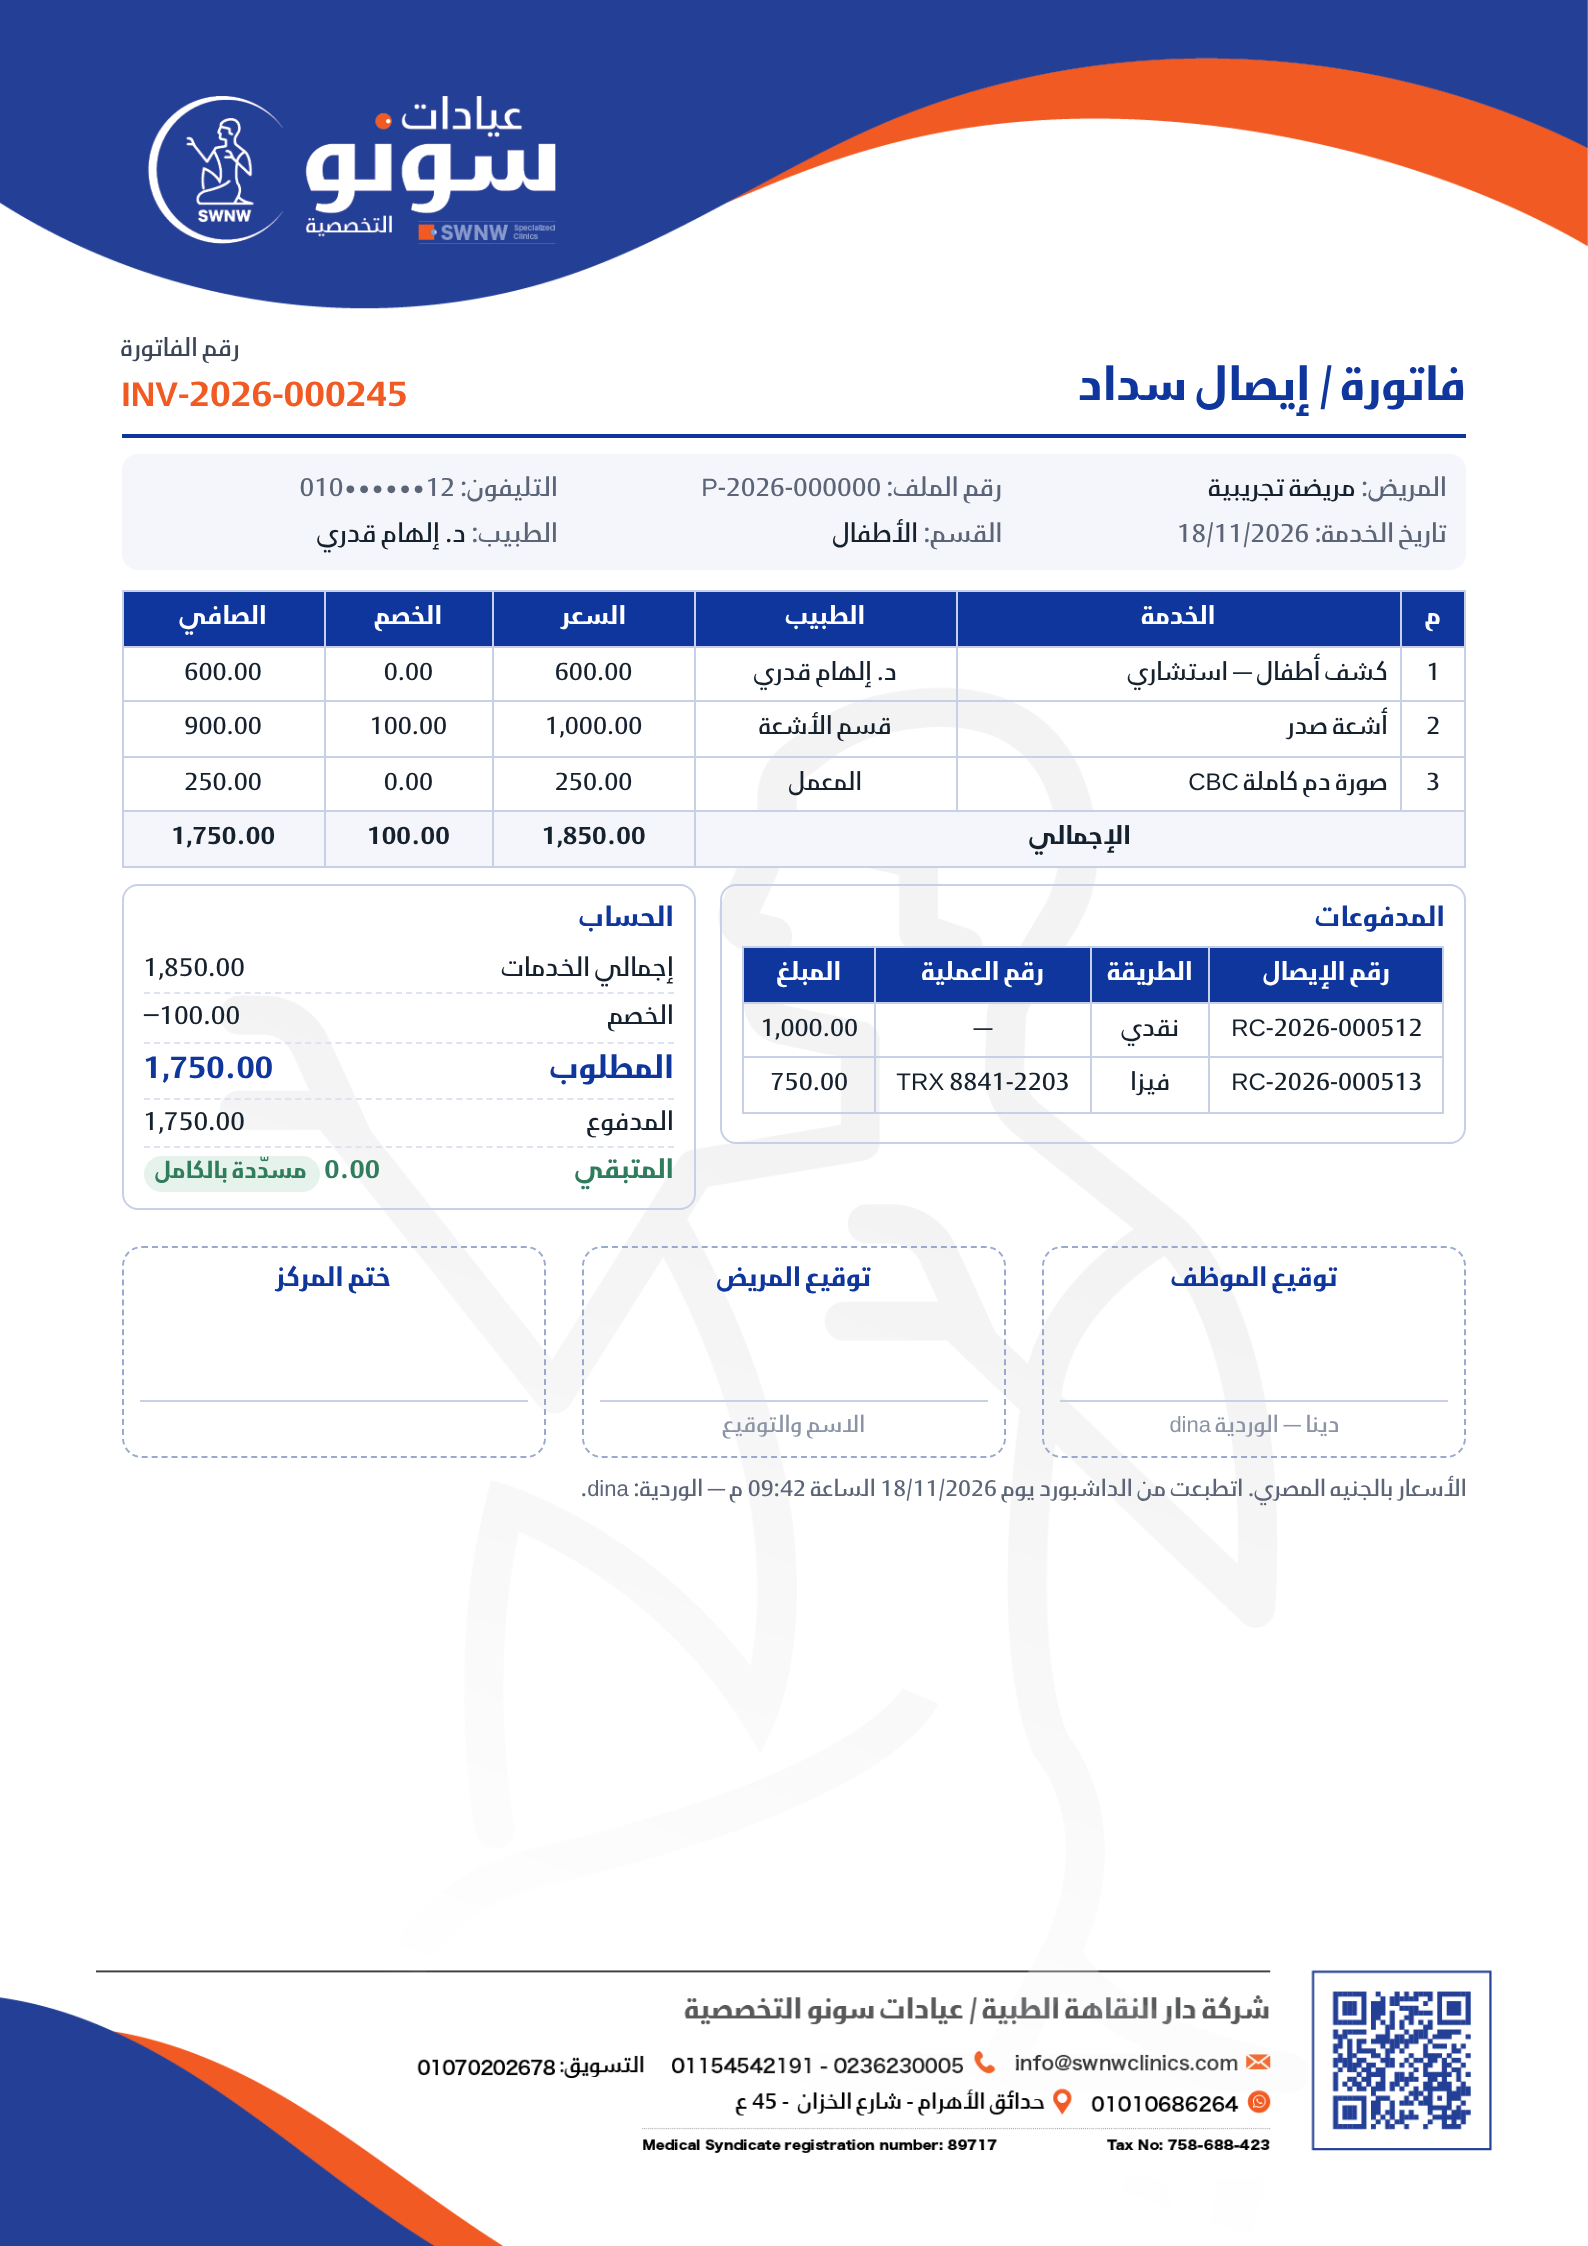
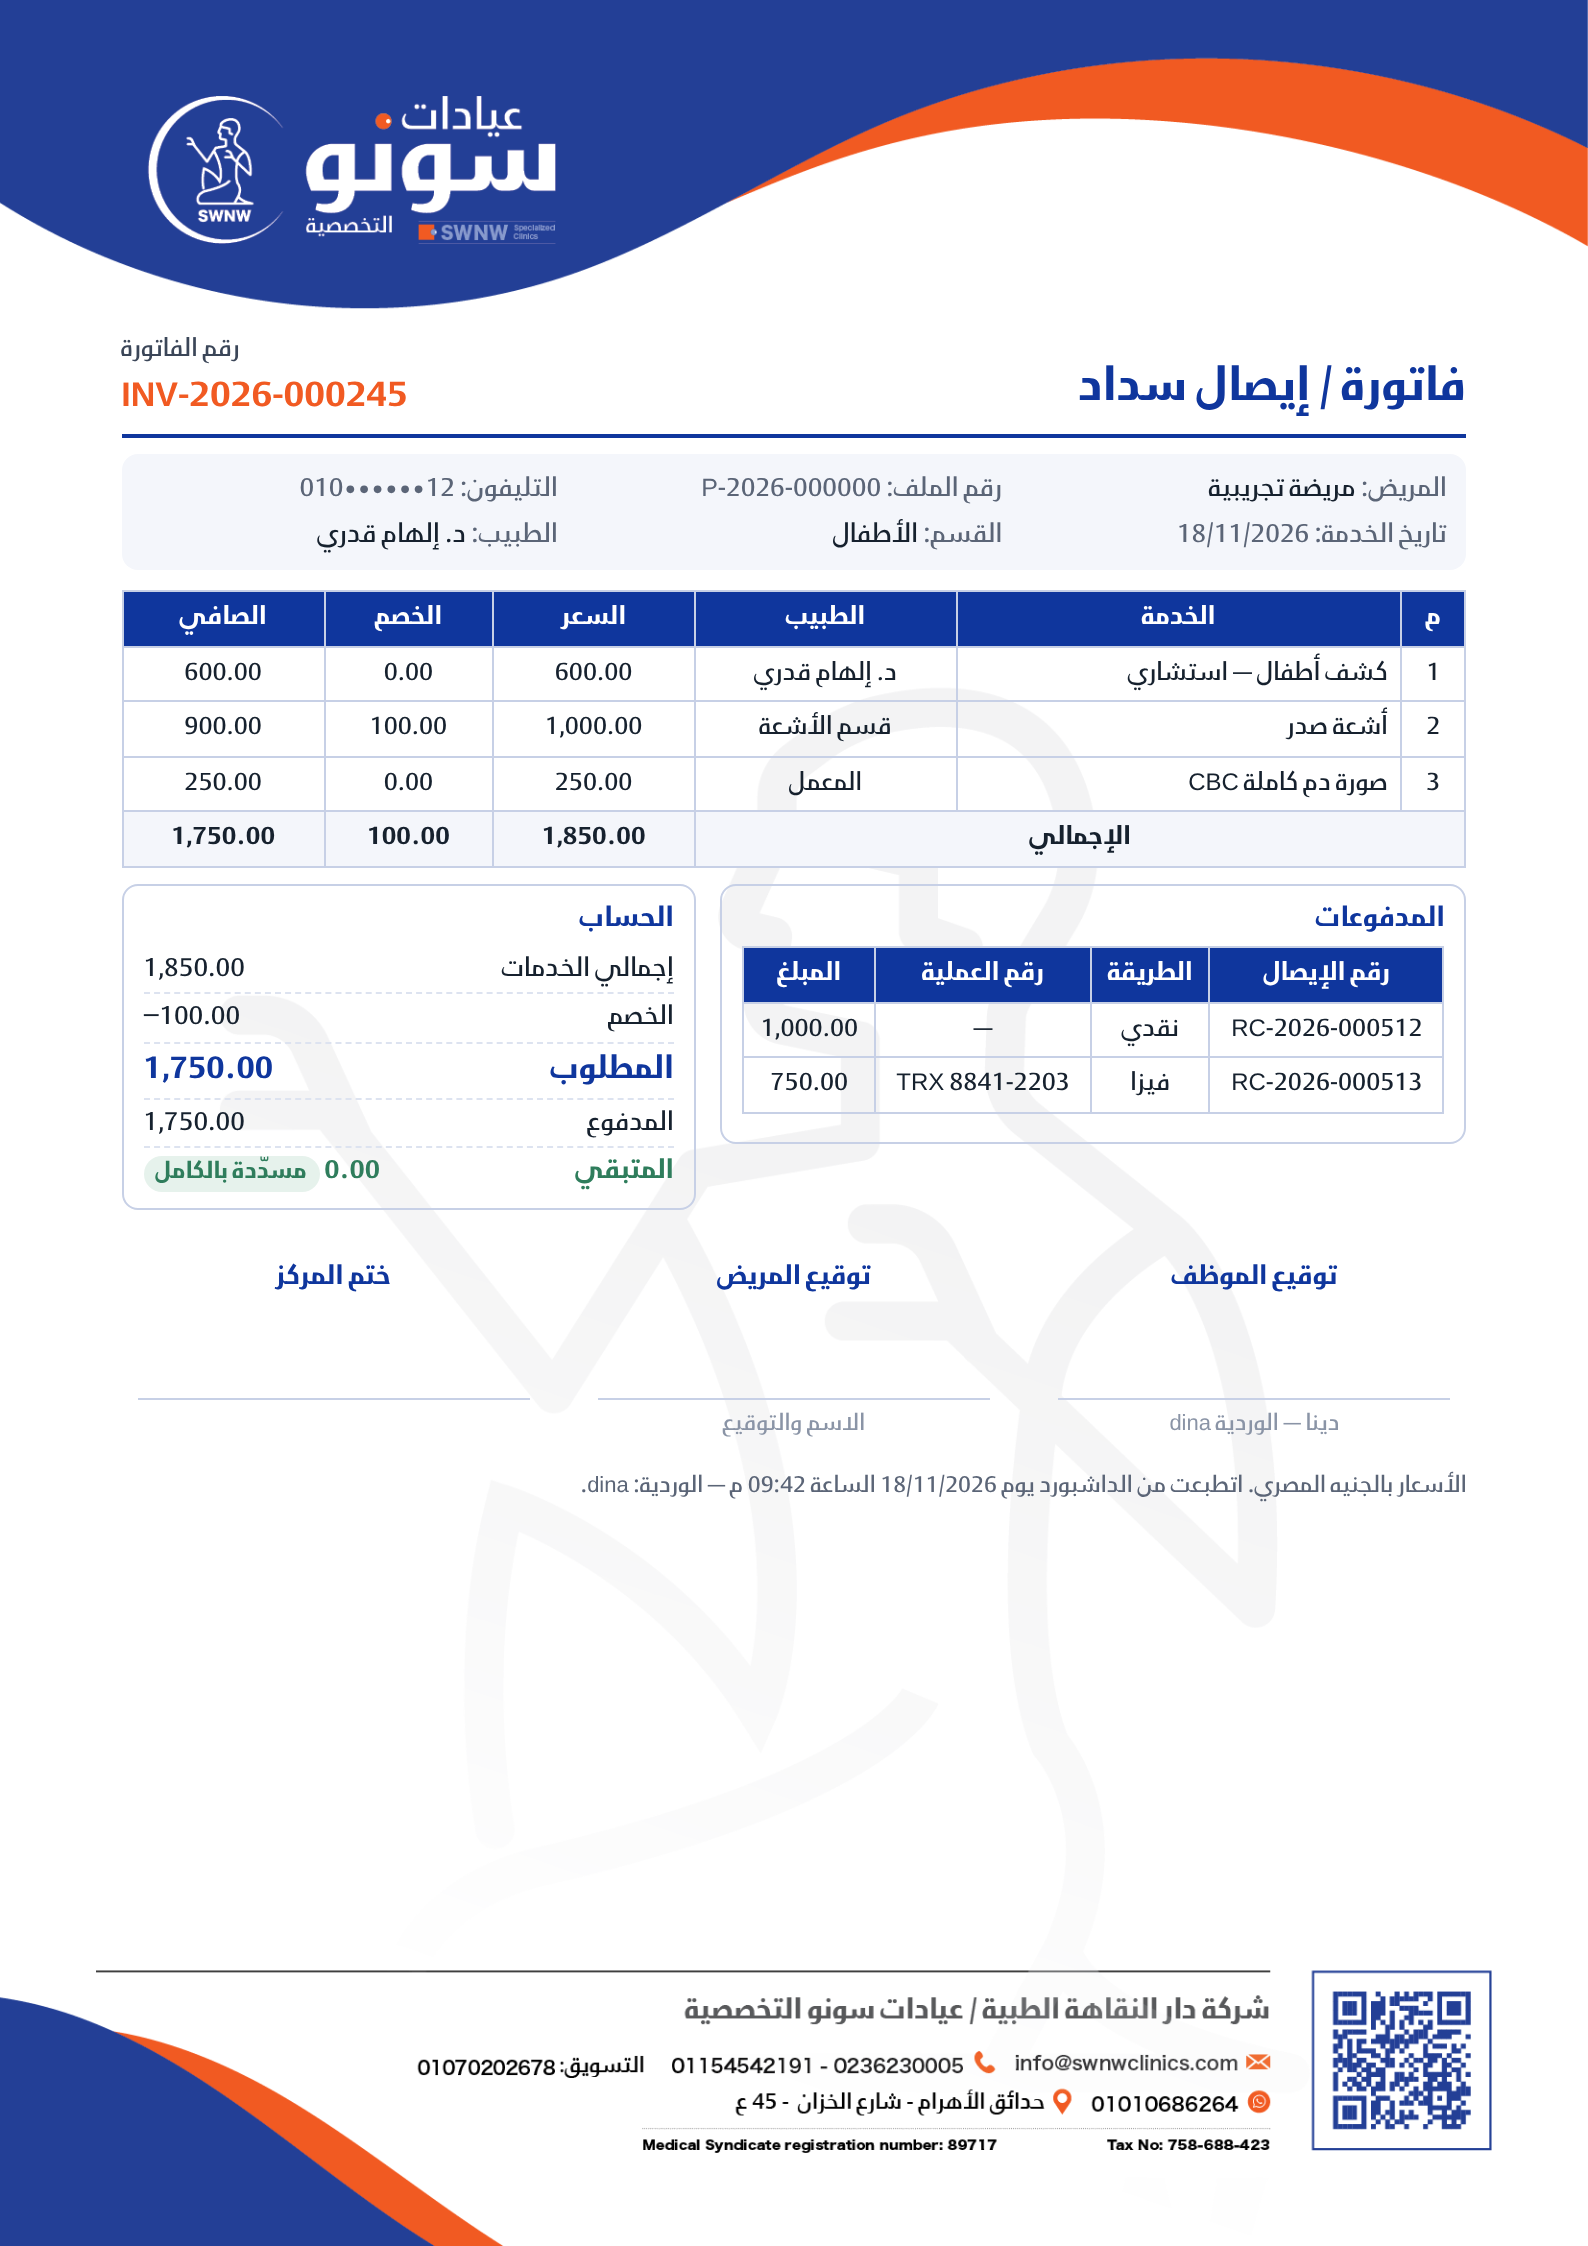
Invoice mockups: signatures without frames
Claude-Session: https://claude.ai/code/session_01UqVZHa1WNN8bEGUYBvTA8M

diff --git a/docs/ui-references/mockups/_invoice-common.css b/docs/ui-references/mockups/_invoice-common.css
@@ -20,6 +20,6 @@ th{background:#0F369D;color:#fff;font-weight:700}td.n{text-align:right}
 .kv{display:flex;justify-content:space-between;padding:2px 0;border-bottom:1px dashed #dde3f0}.kv:last-child{border-bottom:0}
 .kv.big{font-size:15px;font-weight:700;color:#0F369D}.kv.due{color:#2F7D5C;font-weight:700}
 .ltr{direction:ltr;unicode-bidi:isolate}
-.sig{display:grid;grid-template-columns:repeat(3,1fr);gap:18px;margin-top:18px;font-size:12.5px}.sig div{height:92px;border:1px dashed #9aa9cf;border-radius:10px;padding:6px 8px;display:flex;flex-direction:column;justify-content:space-between;text-align:center;color:#3B4658}.sig div b{color:#0F369D}.sig div i{font-style:normal;font-size:11px;color:#8a94a6;border-top:1px solid #c7d0e6;padding-top:4px}
+.sig{display:grid;grid-template-columns:repeat(3,1fr);gap:18px;margin-top:18px;font-size:12.5px}.sig div{height:92px;padding:6px 8px;display:flex;flex-direction:column;justify-content:space-between;text-align:center;color:#3B4658}.sig div b{color:#0F369D}.sig div i{font-style:normal;font-size:11px;color:#8a94a6;border-top:1px solid #c7d0e6;padding-top:4px}
 .note{font-size:11px;color:#5b6577;margin-top:8px}
 .tag{display:inline-block;padding:0 6px;border-radius:9px;font-size:11px;background:#e6f2ec;color:#2F7D5C}
